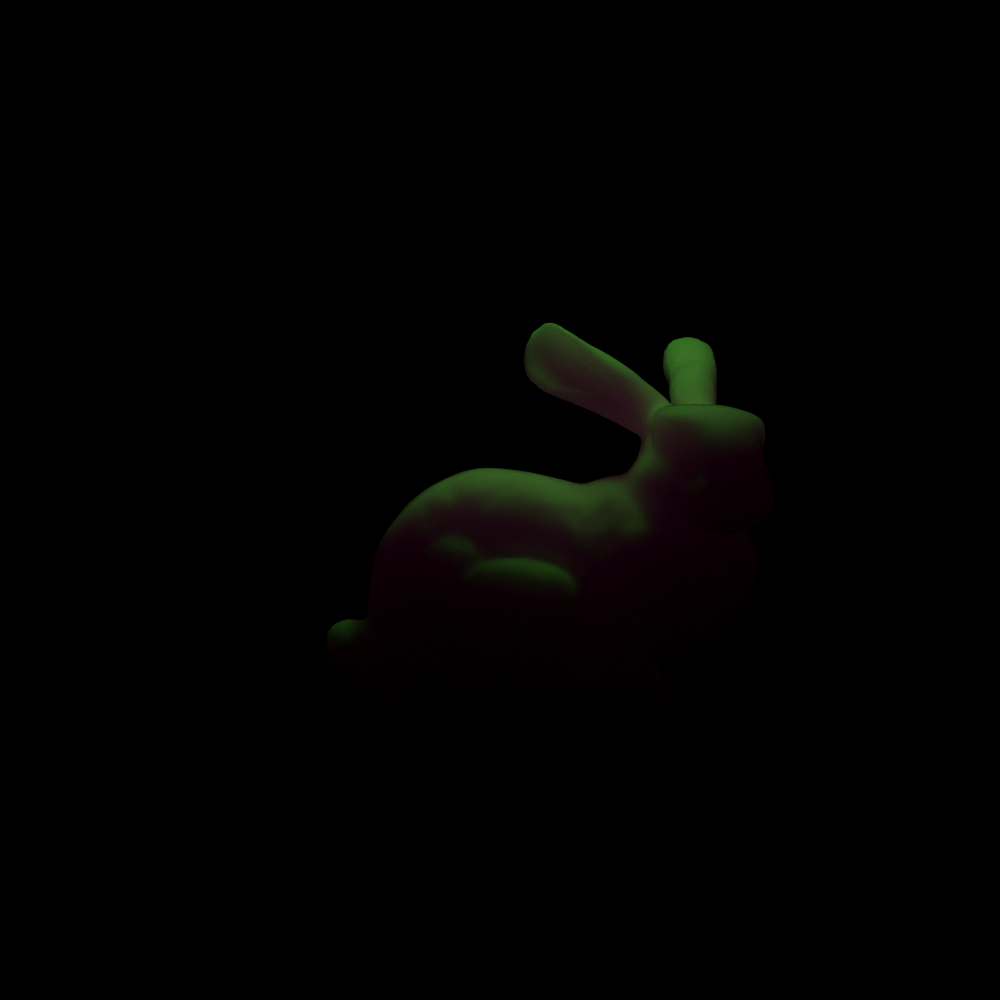
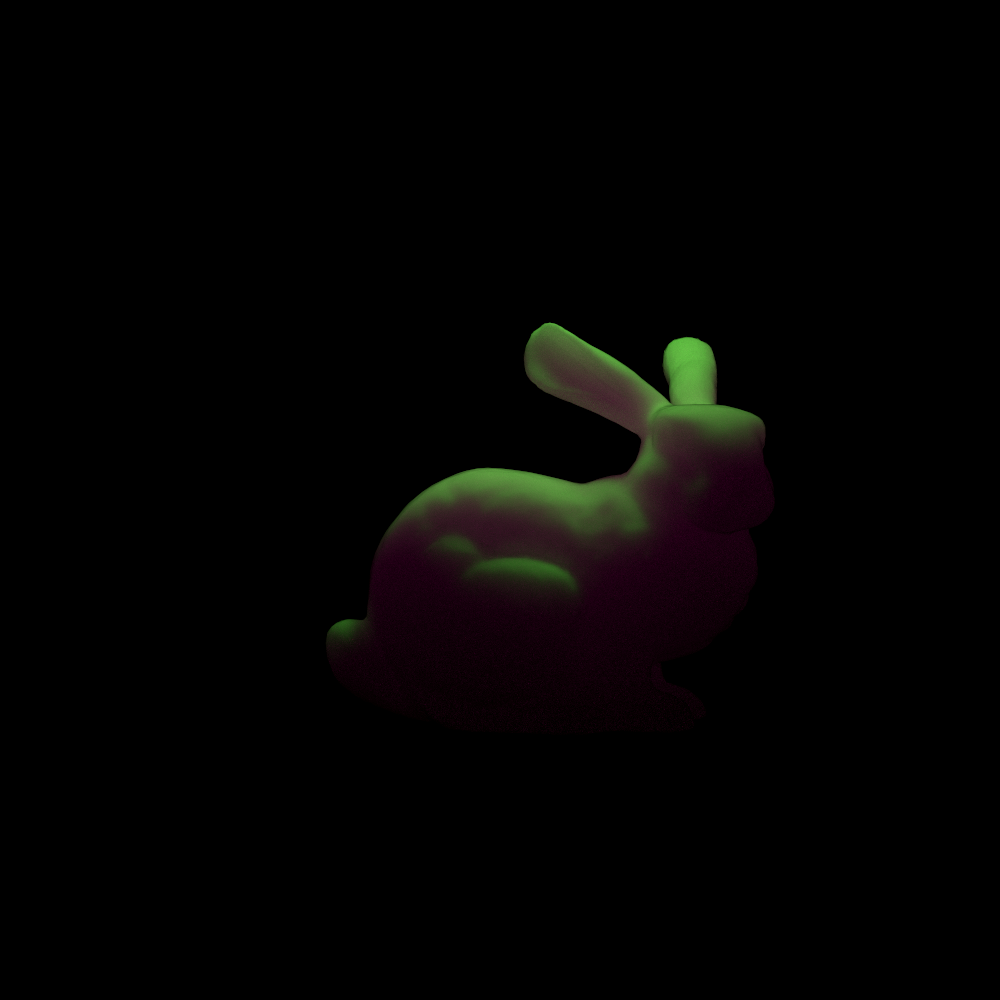
compensation: pi

Changed region(s): [[0.403, 0.31, 0.775, 0.589], [0.341, 0.62, 0.372, 0.651]]

diff --git a/src/main.py b/src/main.py
@@ -93,6 +93,16 @@ res = make_int2(1000, 1000)
 
 
 @numba.jit
+def surface_kernel(triangle_array, vertex_array):
+    acc = 0.
+    for i in range(0, len(triangle_array), 3):
+        i0, i1, i2 = triangle_array[i:i + 3]
+        p0, p1, p2 = vertex_array[i0], vertex_array[i1], vertex_array[i2]
+        acc += 0.5 * np.linalg.norm(np.cross(p1 - p0, p2 - p0))
+    return acc
+
+
+@numba.jit
 def normal_array_kernel(triangle_array, normal_index_array, normal_vectors, vertex_num):
     normal_array = np.empty((vertex_num, 3), dtype=np.float32)
     for normal_index, vertex_index in zip(normal_index_array, triangle_array):
@@ -108,6 +118,10 @@ def ccw_check_kernel(triangle_array, vertex_array, normal_array):
         n = np.cross(p1 - p0, p2 - p0)
         if np.dot(n, normal_array[i0]) < 0:
             triangle_array[i], triangle_array[i + 1] = i1, i0
+
+
+global surface_area
+surface_area = 0.
 
 
 def parse_scene(filename: str):
@@ -137,6 +151,8 @@ def parse_scene(filename: str):
         ], dtype=np.int32)
         normal_array = normal_array_kernel(triangle_array, normal_index_array, normal_vectors, vertex_array.shape[0])
         normal_array /= np.linalg.norm(normal_array, axis=1).reshape((-1, 1))
+        global surface_area
+        surface_area = surface_kernel(triangle_array, vertex_array)
         print("Model data parsing done...")
         # ccw_check_kernel(triangle_array, vertex_array, normal_array)
         vertex_arrays.append(vertex_array)
@@ -224,7 +240,6 @@ def parse_scene(filename: str):
 
 dmfp: float3 = make_float3(0.0)
 albedo: float3 = make_float3(0.0)
-transmittance: float = 1.0
 
 
 def calculate_parameters():
@@ -253,9 +268,6 @@ def calculate_parameters():
     s = 3.5 + 100 * s * s
     global dmfp
     dmfp = 1.0 / (s * sigma_tr)
-    reflectance = (1.0 - eta) / (1.0 + eta)
-    global transmittance
-    transmittance = 1.0 - reflectance * reflectance
 
 
 @luisa.func
@@ -437,7 +449,7 @@ def path_tracing_kernel(canvas):
                             pdf_disk(length(cross(prev_onb.tangent, offset))) * abs(
                         dot(prev_onb.tangent, n)) + pdf_disk(length(cross(prev_onb.binormal, offset))) * abs(
                         dot(prev_onb.binormal, n))) * 0.25
-                amp *= albedo * bssrdf / (pdf_bssrdf * pdf_xy * math.pi)
+                amp *= albedo * bssrdf / (pdf_bssrdf * pdf_xy)
                 contrib += amp * collect_direct_illumination(p, n)
                 ray = make_ray(p, onb.to_world(cosine_sample_hemisphere(make_float2(sampler.next(), sampler.next()))),
                                1e-3, 1e10)
@@ -487,6 +499,15 @@ def path_tracing_kernel(canvas):
                     mis_weight = balanced_heuristic(pdf_bsdf, pdf_light)
                     contrib += surface_light.emission * amp * (mis_weight * cos_light)
                     break
+            # rr
+            luminance = dot(make_float3(0.212671, 0.715160, 0.072169), amp)
+            if luminance == 0.0:
+                break
+            q = max(luminance, 0.05)
+            r = sampler.next()
+            if r >= q:
+                break
+            beta *= 1.0 / q
         if any(isnan(contrib)):
             contrib = make_float3(0.)
         acc += contrib
